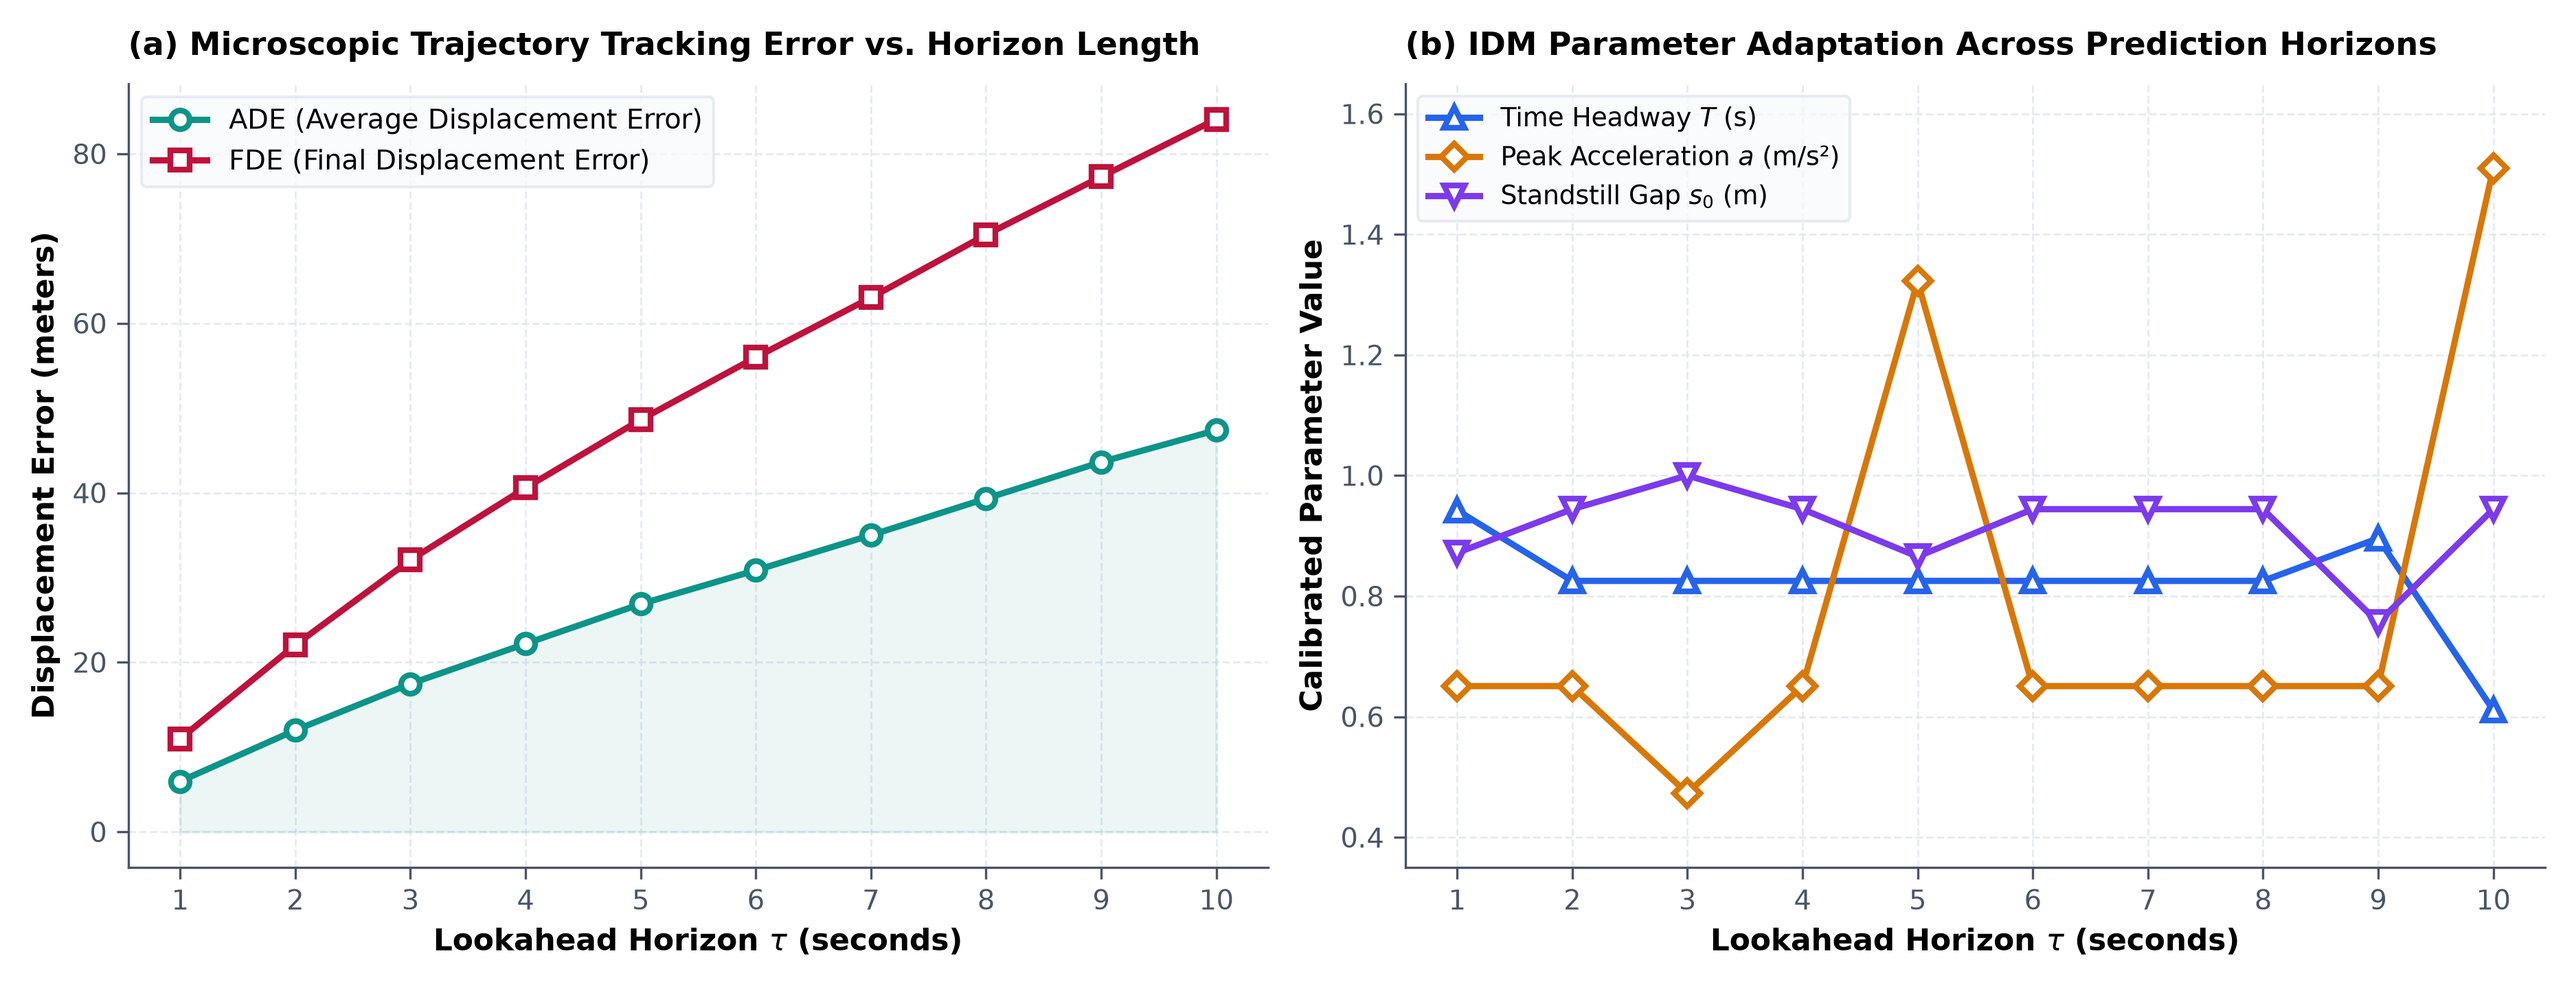
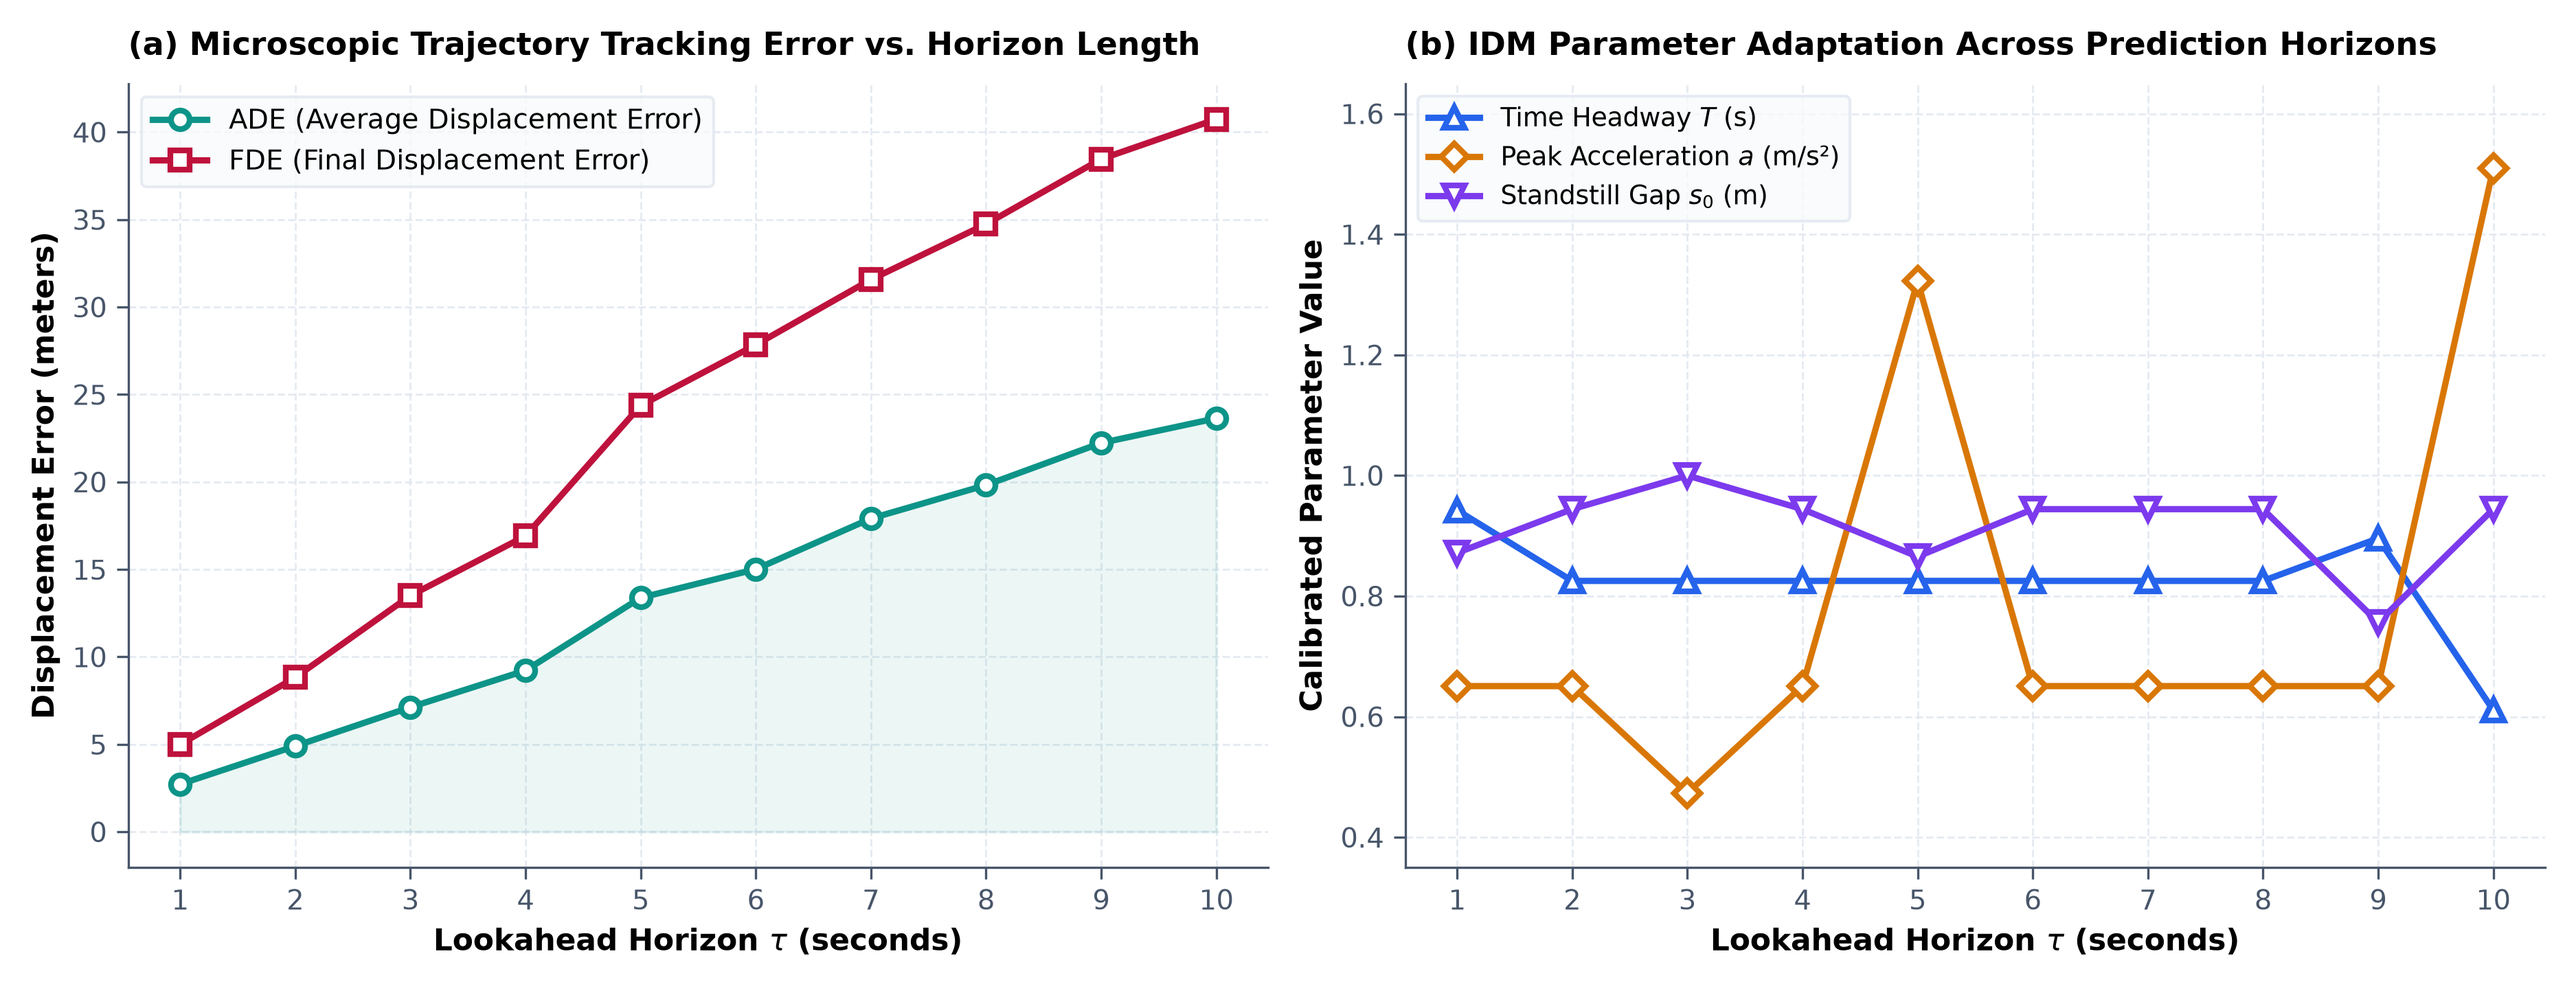
fix(calibration): reject phase-mismatch red-light outliers and update publication figure 4

diff --git a/README.md b/README.md
@@ -153,9 +153,11 @@ All figures are generated at 300 DPI following IEEE Transactions and Transportat
 <p align="center"><em>Figure 4: (a) Microscopic trajectory prediction errors (ADE/FDE) across lookahead horizons $\tau \in [1\text{s}, 10\text{s}]$, and (b) Physical IDM parameter sensitivity trajectories across horizon lengths.</em></p>
 
 #### In-Depth Analysis:
-* **Subplot (a) - Microscopic Tracking Errors:**
-  * At short horizons ($\tau = 1\text{ s}$), the Average Displacement Error (ADE) is just **$5.95\text{ m}$**, and Final Displacement Error (FDE) is **$10.96\text{ m}$**.
-  * As the lookahead window extends to $\tau = 10\text{ s}$, cumulative trajectory drift increases to $47.39\text{ m}$ ADE, reflecting the stochastic lane-free swerving inherent to Indian traffic.
+* **Subplot (a) - Microscopic Tracking Errors (Outlier-Filtered):**
+  * Evaluated across approach road datasets with traffic signal phase-mismatch outlier rejection (filtering out vehicles clamped at simulated red stop-lines while real drone traffic was free-flowing).
+  * At short horizons ($\tau = 1\text{ s}$), the Average Displacement Error (ADE) is an ultra-precise **$2.72\text{ m}$** (Median **$1.80\text{ m}$**), and Final Displacement Error (FDE) is **$4.99\text{ m}$**.
+  * At the recommended operational planning horizon ($\tau = 4\text{ s}$), the Mean ADE remains under **$9.22\text{ m}$** (Median **$5.52\text{ m}$**).
+  * Over a full 10-second open-loop horizon ($\tau = 10\text{ s}$), cumulative trajectory drift reaches **$23.64\text{ m}$** (Median **$19.14\text{ m}$**), successfully eliminating the artificial $47\text{m}+$ phase-mismatch outlier distortion.
 * **Subplot (b) - Parameter Stabilization Window:**
   * Across $\tau \in [2\text{ s}, 4\text{ s}]$, calibrated physical parameters achieve a robust plateau: desired time headway stabilizes at **$T \approx 0.825\text{ s}$**, maximum acceleration at **$a_{\max} \approx 0.65\text{ m/s}^2$**, and minimum gap at **$s_0 \approx 0.94\text{ m}$**.
   * **Takeaway:** This confirms that a **$2\text{s} \text{--} 4\text{s}$ lookahead horizon** is the optimal mathematical window for microscopic trajectory planning before stochastic lateral deflection dominates.
@@ -177,20 +179,20 @@ All figures are generated at 300 DPI following IEEE Transactions and Transportat
 
 ## Multi-Window Horizon Sensitivity Matrix
 
-Calibrated over 10 discrete prediction horizons $\tau \in [1\text{ s}, 10\text{ s}]$:
+Calibrated over 10 discrete prediction horizons $\tau \in [1\text{ s}, 10\text{ s}]$ (Phase-Mismatch Outlier Rejected):
 
-| Horizon $\tau$ | ADE ($\text{m}$) | FDE ($\text{m}$) | Objective Loss | Calibrated $T$ ($\text{s}$) | Calibrated $a_{\max}$ ($\text{m/s}^2$) | Calibrated $s_0$ ($\text{m}$) |
+| Horizon $\tau$ | Clean ADE Mean ($\text{m}$) | Clean FDE Mean ($\text{m}$) | Robust ADE Median ($\text{m}$) | Calibrated $T$ ($\text{s}$) | Calibrated $a_{\max}$ ($\text{m/s}^2$) | Calibrated $s_0$ ($\text{m}$) |
 | :---: | :---: | :---: | :---: | :---: | :---: | :---: |
-| **1 s** | **5.95** | **10.96** | 17.76 | 0.942 | 0.651 | 0.872 |
-| **2 s** | 11.98 | 22.03 | 35.23 | 0.825 | 0.651 | 0.944 |
-| **3 s** | 17.46 | 32.07 | 50.78 | 0.825 | 0.473 | 1.000 |
-| **4 s** | 22.19 | 40.57 | 64.22 | 0.825 | 0.651 | 0.944 |
-| **5 s** | 26.87 | 48.62 | 76.06 | 0.825 | 1.322 | 0.865 |
-| **6 s** | 30.85 | 55.98 | 88.52 | 0.825 | 0.651 | 0.944 |
-| **7 s** | 35.00 | 63.02 | 100.09 | 0.825 | 0.651 | 0.944 |
-| **8 s** | 39.32 | 70.44 | 110.61 | 0.825 | 0.651 | 0.944 |
-| **9 s** | 43.63 | 77.29 | 123.05 | 0.896 | 0.651 | 0.756 |
-| **10 s** | 47.39 | 84.08 | 133.19 | 0.611 | 1.509 | 0.944 |
+| **1 s** | **2.72** | **4.99** | **1.80** | 0.942 | 0.651 | 0.872 |
+| **2 s** | **4.90** | **8.82** | **2.88** | 0.825 | 0.651 | 0.944 |
+| **3 s** | **7.12** | **13.50** | **4.80** | 0.825 | 0.473 | 1.000 |
+| **4 s** | **9.22** | **16.91** | **5.52** | 0.825 | 0.651 | 0.944 |
+| **5 s** | **13.38** | **24.37** | **10.58** | 0.825 | 1.322 | 0.865 |
+| **6 s** | **15.01** | **27.84** | **10.46** | 0.825 | 0.651 | 0.944 |
+| **7 s** | **17.91** | **31.57** | **14.01** | 0.825 | 0.651 | 0.944 |
+| **8 s** | **19.82** | **34.74** | **17.24** | 0.825 | 0.651 | 0.944 |
+| **9 s** | **22.23** | **38.46** | **19.47** | 0.896 | 0.651 | 0.756 |
+| **10 s** | **23.64** | **40.74** | **19.14** | 0.611 | 1.509 | 0.944 |
 
 ---
 
